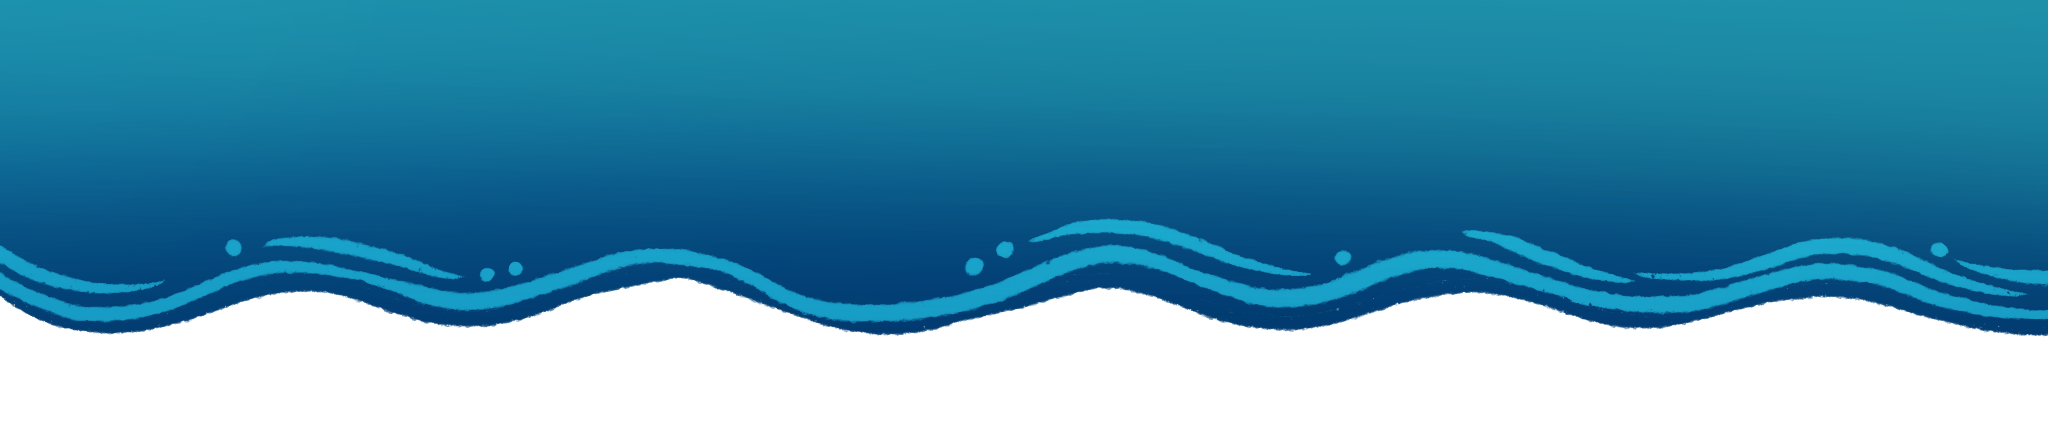
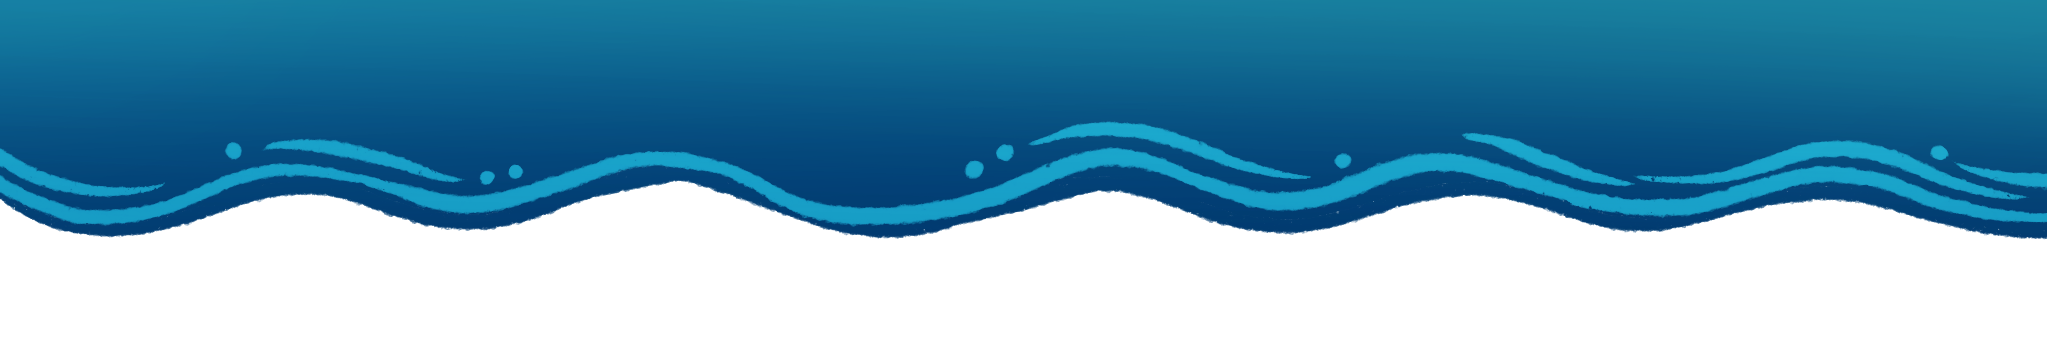
할 일 탭 페이징 구현

diff --git a/js/database.js b/js/database.js
@@ -25,6 +25,7 @@ $(function () {
         if (check) {
             var todoList = JSON.parse(localStorage["todoList"]);
             todoList[id].isChecked = !todoList[id].isChecked;
+
             localStorage.setItem("todoList", JSON.stringify(todoList));
         }
         check = !check;
@@ -60,10 +61,6 @@ function insertData() {
     if (todo === "")
         alert('할 일을 입력해주세요' + '!');
     else {
-        var date = new Date();
-        var dateStr = date.getFullYear() + '-'
-            + (date.getMonth() + 1) + '-' + date.getDate();
-
         var todoList;
         try {
             todoList = JSON.parse(localStorage["todoList"]);
@@ -71,7 +68,7 @@ function insertData() {
             todoList = new Array();
         }
 
-        var newItem = new Todo(todoList.length, todo, false, dateStr, null);
+        var newItem = new Todo(todoList.length, todo, false, getDateStr(), null);
         todoList.push(newItem);
         localStorage.setItem("todoList", JSON.stringify(todoList));
         location.reload();
@@ -87,16 +84,19 @@ function initList() {
         $('#list-msg').text('');
         var start = '<li><label class="container" id="todo-';
         var start2 = '">';
-        var checkEnd = '<input type="checkbox" checked="checked"><span class="checkmark"></span></label><input type="button" class="btn-finish" id="';
-        var unCheckedEnd = '</span><input type="checkbox"><span class="checkmark"></span></label><input type="button" class="btn-finish" id="';
+        var checkEnd = '<input type="checkbox" checked="checked"><span class="checkmark"></span></label>' +
+            '<input type="button" class="btn-finish" id="';
+        var unCheckedEnd = '</span><input type="checkbox"><span class="checkmark"></span></label>' +
+            '<input type="button" class="btn-finish" id="';
         var end = '"></li>';
 
         todoList.forEach(value => {
-            if (value.isChecked && value.finishDate === null)
+            if (value.isChecked && value.finishDate === null) {
                 str += start + id + start2 + value.todo + checkEnd + id + end;
-            else if (!value.isChecked && value.finishDate === null)
+            }
+            else if (!value.isChecked && value.finishDate === null) {
                 str += start + id + start2 + value.todo + unCheckedEnd + id + end;
-
+            }
             id++;
         });
     } catch (e) {
@@ -114,11 +114,7 @@ function initList() {
 function finish(value) {
     var arr = JSON.parse(localStorage["todoList"]);
 
-    var date = new Date();
-    var dateStr = date.getFullYear() + '-'
-        + (date.getMonth() + 1) + '-' + date.getDate();
-
-    arr[value].finishDate = dateStr;
+    arr[value].finishDate = getDateStr();
     localStorage.setItem("todoList", JSON.stringify(arr));
     localStorage.setItem("sumCount", Number(localStorage.getItem("sumCount")) + 1);
 
@@ -191,13 +187,13 @@ function setLevel() {
         level = 4 + Math.floor((count - 9) / 5);
     } else if (count < 52) {
         exp = (((count - 34) % 6) / 6 * 100).toFixed(1) + "%";
-        level = 9 + Math.floor((count - 34) / 6 + 1)
+        level = 9 + Math.floor((count - 34) / 6)
     } else if (count < 108) {
         exp = (((count - 52) % 7) / 7 * 100).toFixed(1) + "%";
-        level = 12 + Math.floor((count - 52) / 7 + 1)
+        level = 12 + Math.floor((count - 52) / 7)
     } else if (count < 154) {
         exp = (((count - 108) % 8) / 8 * 100).toFixed(1) + "%";
-        level = 20 + Math.floor((count - 108) / 8 + 1)
+        level = 20 + Math.floor((count - 108) / 8)
     } else {
         exp = ((count - 162) / 10 * 100).toFixed(1) + "%";
         level = 27 + Math.floor((count - 162) / 10);
@@ -208,4 +204,12 @@ function setLevel() {
 
     localStorage.setItem("level", level);
     localStorage.setItem("exp", exp);
+}
+
+function getDateStr() {
+    var date = new Date();
+    var dateStr = date.getFullYear() + '-'
+        + (date.getMonth() + 1) + '-' + date.getDate();
+
+    return dateStr;
 }

diff --git a/js/todo.js b/js/todo.js
@@ -1,22 +1,60 @@
 window.onload = function () {
-    var count = localStorage.getItem("sumCount");
-    $('#count').text(count + "개");
+    var todoList = JSON.parse(localStorage["todoList"]);
 
     var str = '<ul class="todo-list">';
-    if (count > 0) {
-        var todoList = JSON.parse(localStorage["todoList"]);
+    var idx = 0;
+    var pageNum = Number(location.href.substr(location.href.lastIndexOf('=') + 1));
+
+    if (todoList.length > 0) {
+        todoList.reverse();
+
+        var start = pageNum * 10;
+        var end = start + 10;
+        var startIdx = 0, endIdx = 0;
+
         todoList.forEach(value => {
-            console.log(value);
-            if (value.finishDate != null) {
-                str += '<li class="finish-item">' + value.todo
-                    + '<br><span class="date">진행기간 | ' +
-                    value.addDate + " ~ " + value.finishDate +
-                    '</span></li>';
+            if (value.finishDate != null || value.isChecked) {
+                if (startIdx++ >= start && endIdx++ < end) { // 한 페이지에 10개 씩
+                    str += '<li class="finish-item">' + value.todo
+                        + '<br><span class="date">진행기간 | ' +
+                        value.addDate + " ~ ";
+
+                    if (value.finishDate != null)
+                        str += value.finishDate + '</span></li>';
+                    else
+                        str += getDateStr() + '*' + '</span></li>';
+
+                }
+                idx++;
+                console.log(value.todo);
             }
-        })
+        });
+
+        $('#count').text(idx + "개");
     } else {
-        $('#finish-msg').text("완료된 할 일이 이곳에 표시됩니다!");
+        $('#no-item-msg').text("완료된 할 일이 이곳에 표시됩니다!");
     }
     str += '</ul>';
     $('#finish-list').html(str);
+
+    str = "";
+    var totalPage = idx / 10;
+
+    for (let i = 0; i < totalPage; i++) {
+        if (i === pageNum)
+            str += '<b>' + (i + 1) + '</b> ';
+        else
+            str += '<a class="page-text" href="../todo.html?index=' + i + '">' + (i + 1) + '</a> ';
+    }
+
+    if (idx > 10)
+        $('#pages').html(str)
 };
+
+function getDateStr() {
+    var date = new Date();
+    var dateStr = date.getFullYear() + '-'
+        + (date.getMonth() + 1) + '-' + date.getDate();
+
+    return dateStr;
+}

diff --git a/css/style.css b/css/style.css
@@ -233,15 +233,16 @@ li {
 }
 
 .btn-finish {
-    float: right;
+    right: 0;
     display: inline-block;
-    background-image: url("../img/close.png");
+    position: absolute;
+    background-image: url("../img/ic_close.png");
     background-size: 15px;
     vertical-align: middle;
     background-color: transparent;
     margin-top: 5px;
+    margin-right: 40px;
     padding-right: 16px;
-    padding-bottom: 5px;
     background-repeat: no-repeat;
     border: none;
     cursor: pointer;
@@ -272,6 +273,7 @@ li {
     -moz-user-select: none;
     -ms-user-select: none;
     user-select: none;
+    margin-right: 30px;
 }
 
 input[type="checkbox"] {
@@ -313,6 +315,11 @@ input[type="checkbox"] {
 }
 
 /* 설정 */
+.wave-back {
+    background: white url("../img/back_wave.png") no-repeat;
+    background-size: 590px auto;
+}
+
 #btn-back {
     width: 30px;
     margin: 15px;
@@ -397,7 +404,7 @@ h4 {
     color: #f44186;
 }
 
-#finish-msg {
+#no-item-msg {
     color: #ff70a7;
 }
 
@@ -409,4 +416,21 @@ h4 {
 .finish-item {
     word-wrap: break-word;
     display: block;
+}
+
+#pages {
+    margin: 15px;
+    font-size: 1.7em;
+}
+
+.page-text {
+    color: #003c72;
+}
+
+.page-text:hover {
+    color: #3798D9;
+}
+
+b {
+    font-weight: bolder;
 }

diff --git a/todo.html b/todo.html
@@ -9,17 +9,17 @@
     <link rel="stylesheet" href="css/style.css">
 </head>
 <body>
-<div class="body-center">
+<div class="body-center wave-back">
     <a href="index.html"><img src="img/ic_back.png" alt="뒤로가기" id="btn-back"></a>
 
     <h3 id="count-title"><span><img src="img/heart.png"></span>
-        지금까지 <span id="count">개</span>의 할 일을 끝냈습니다.
+        지금까지 <span id="count">0개</span>의 할 일을 끝냈습니다.
         <span><img src="img/heart.png"></span></h3>
 
     <div id="finish-list"></div>
     <ul class="todo-list"></ul>
-
-    <h1 id="finish-msg"></h1>
+    <h1 id="no-item-msg"></h1>
+    <div id="pages"><b>1</b></div>
 </div>
 </body>
 </html>

diff --git a/setting.html b/setting.html
@@ -8,13 +8,13 @@
     <script src="js/jquery-3.3.1.min.js"></script>
     <script src="js/clear.js"></script>
 </head>
-<body>
+<body class="wave-back">
 <a href="index.html"><img src="img/ic_back.png" alt="뒤로가기" id="btn-back"></a>
 
-<br>
+<br><br>
 <div id="setting-main">
     <h1 class="setting-title">초기화</h1>
-    <p class="setting-des">지금까지의 모두 기록을 초기화하고 다시 시작합니다.</p>
+    <p class="setting-des">지금까지의 모든 기록을 초기화하고 다시 시작합니다.</p>
     <input type="button" name="clear" value="초기화하기" class="btn-clear">
     <hr>
 

diff --git a/whale.html b/whale.html
@@ -30,7 +30,7 @@
 <div id="story-title-div">
     <img src="img/heart.png" id="heart">
     <h4 id="story-title"></h4></br>
-    <p id="story-subtitle">고래의 성장단계에 따른 스토리가 표시됩니다.<br>숫자를 클릭해보세요!</p>
+    <p id="story-subtitle">고래의 성장단계에 따른 스토리가 표시됩니다.<br>버튼을 클릭해보세요!</p>
 </div>
 <div id="story-button-div">
 </div>

diff --git a/index.html b/index.html
@@ -17,7 +17,7 @@
                 <br>웨일</a>
         </div>
         <div class="btn-menu">
-            <a href="todo.html" class="btn">
+            <a href="todo.html?index=0" class="btn">
                 <img src="img/ic_todo.png" alt="할일 버튼" class="btn-img">
                 <br>할일</a>
         </div>
